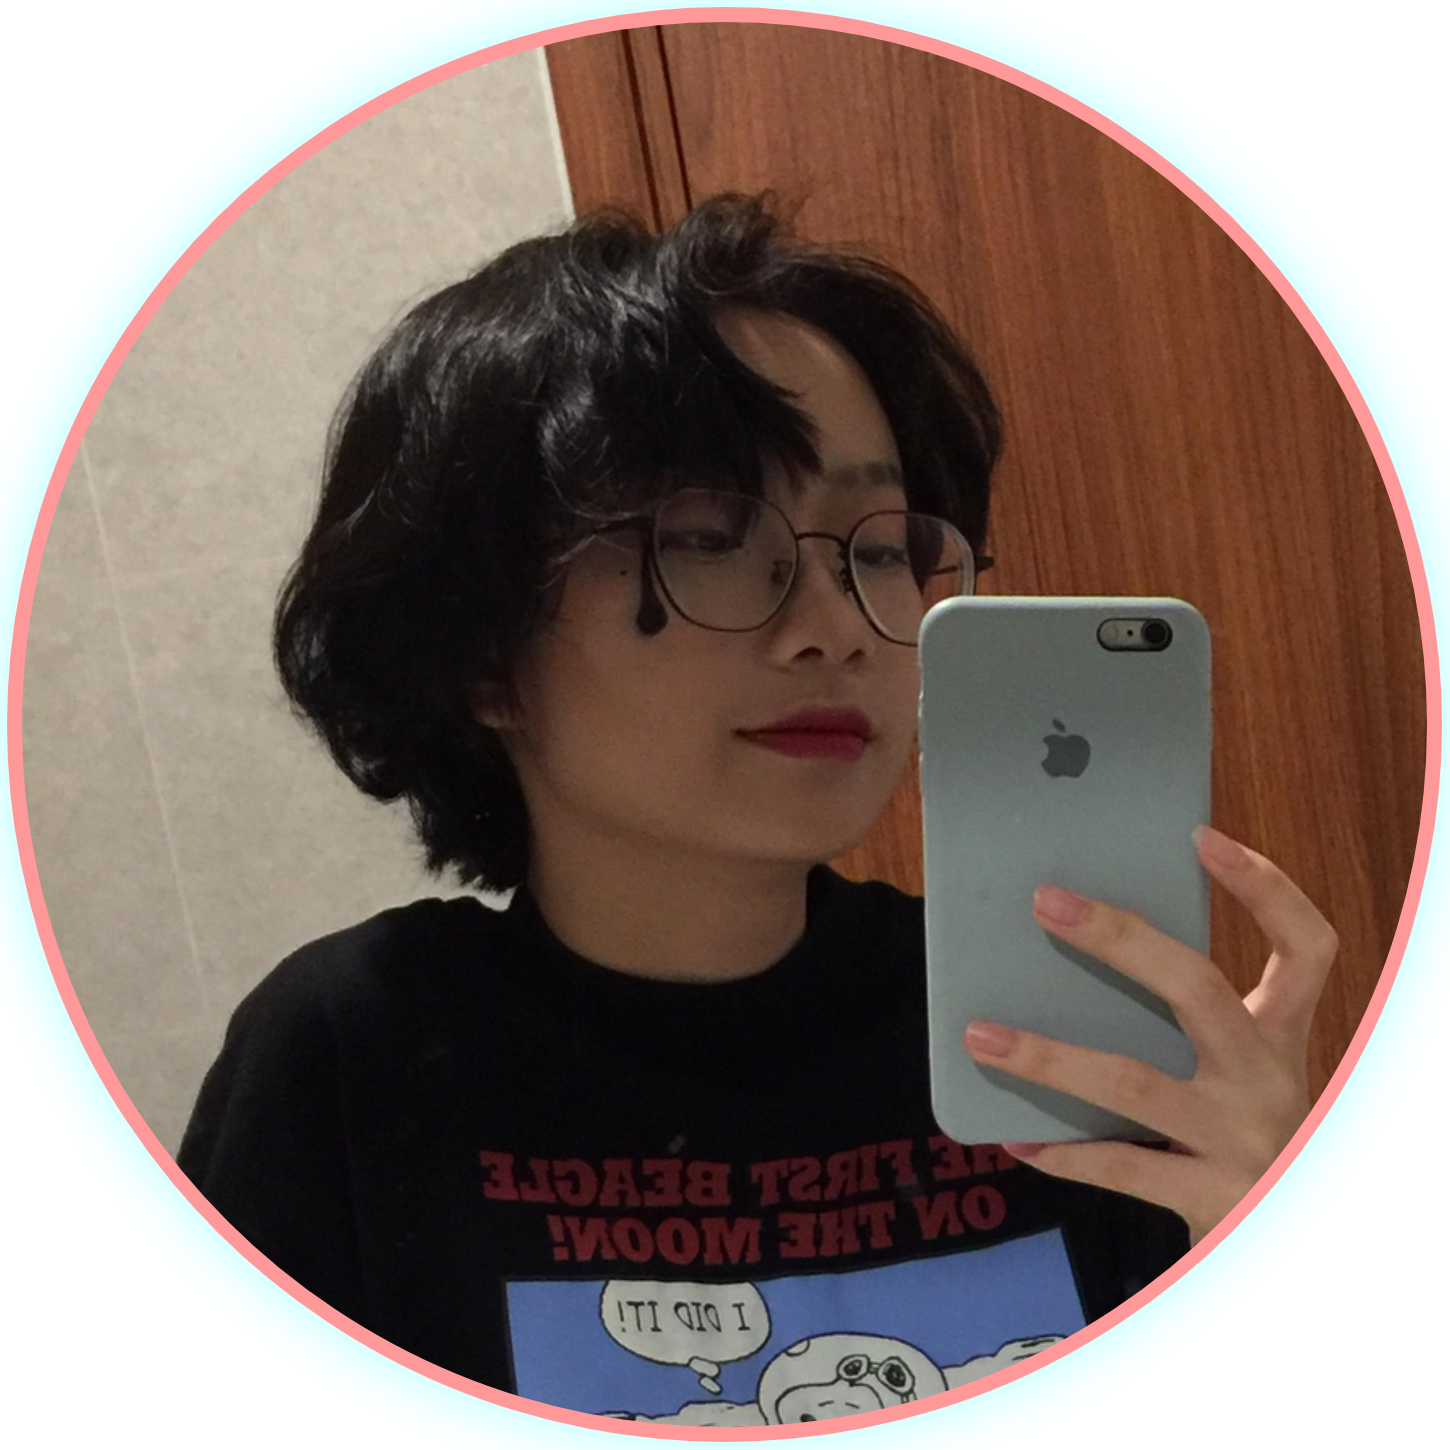
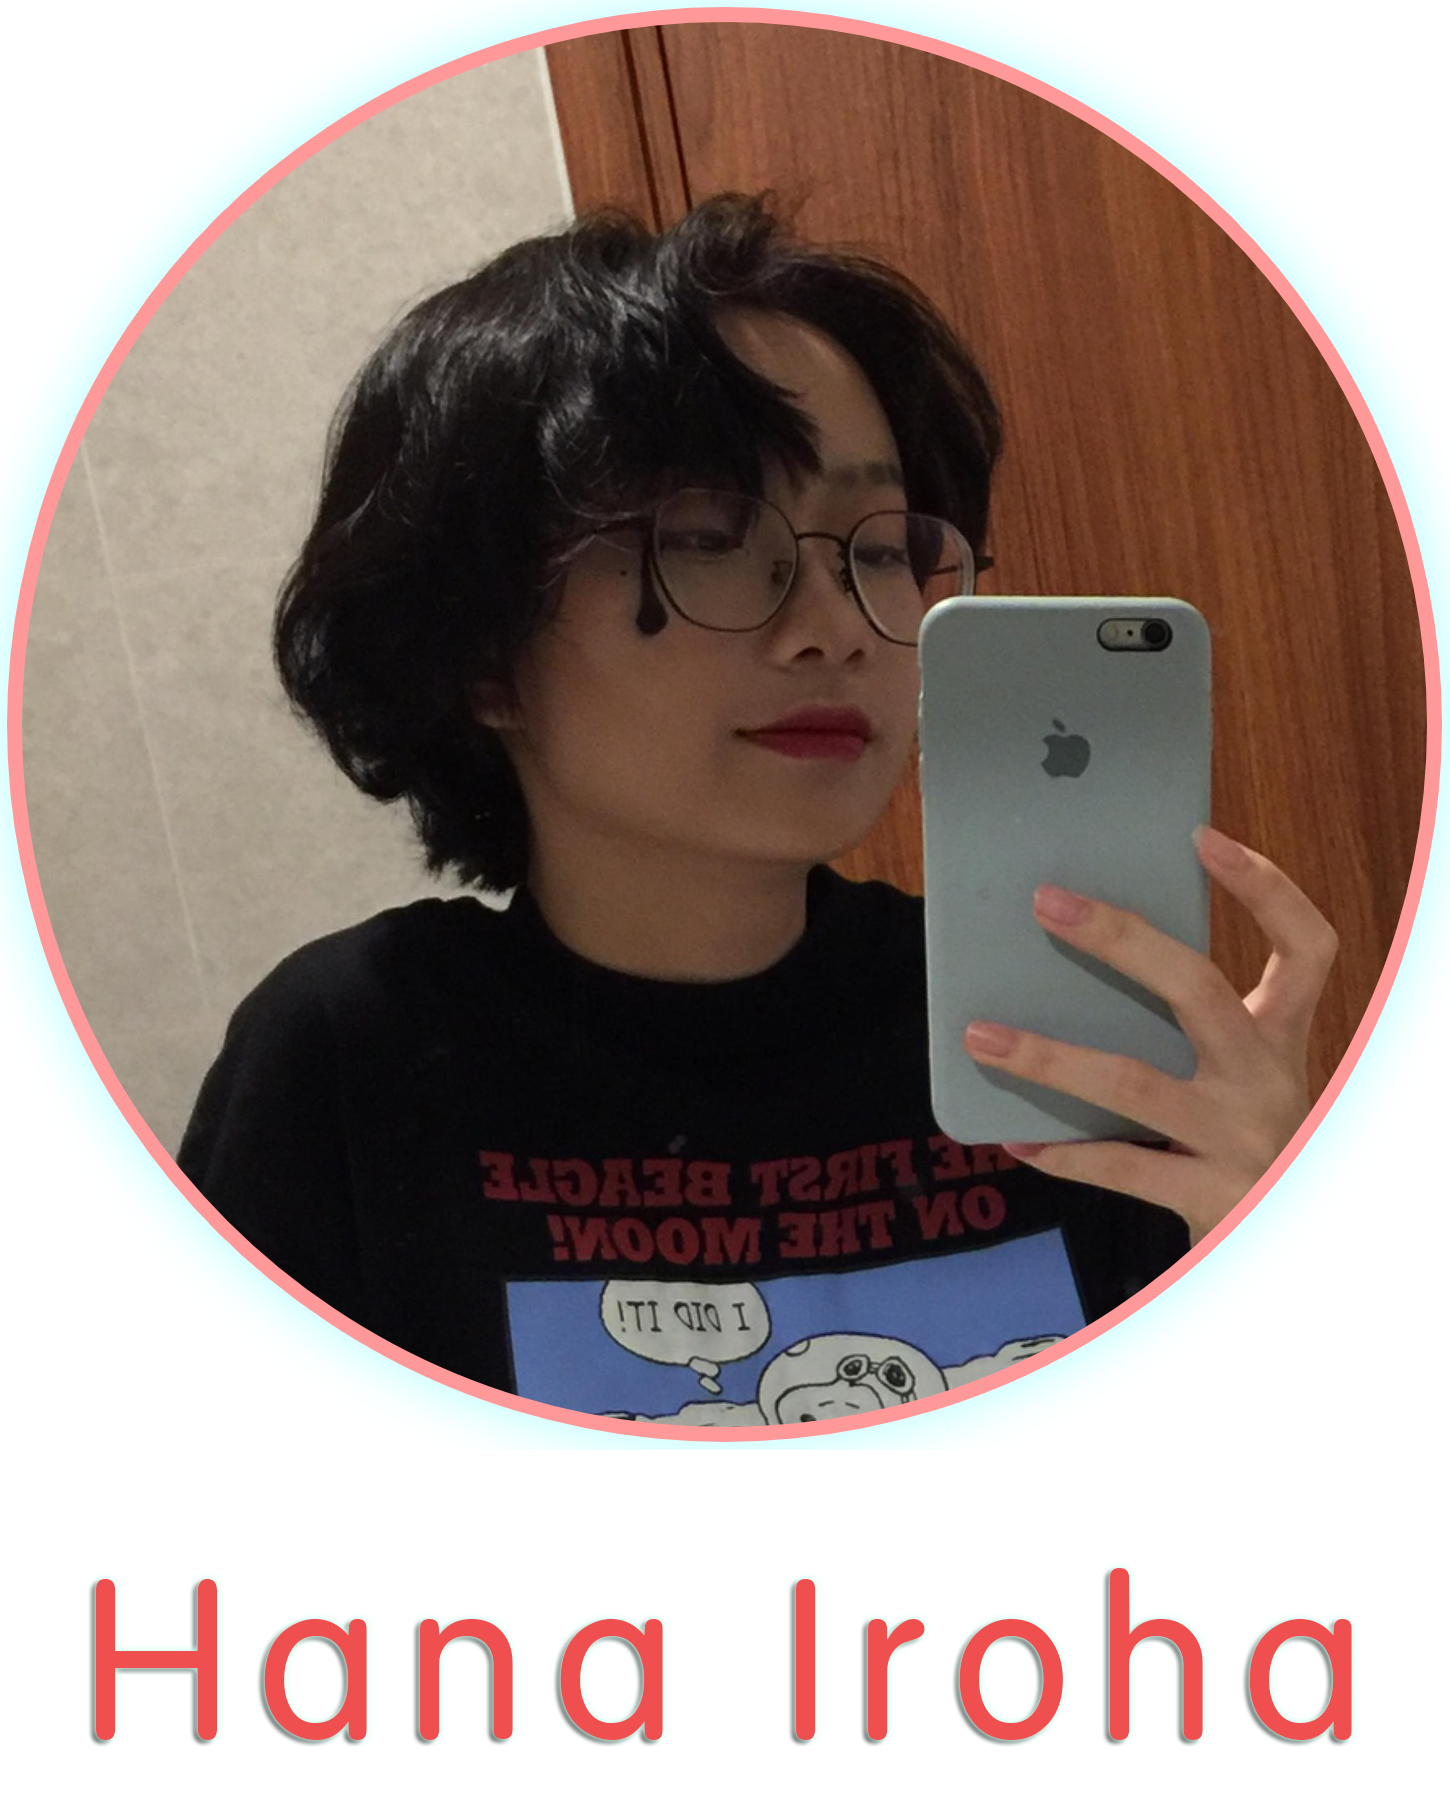
update

diff --git a/style.css b/style.css
@@ -22,8 +22,9 @@ main {
 }
 
 .glass {
+  position: absolute;
   background: white;
-  min-height: 80vh;
+  min-height: 80%;
   width: 80%;
   background: linear-gradient(
     to right bottom,
@@ -37,20 +38,13 @@ main {
 }
 
 #avatar {
-  height: 220px;
-  width: 220px;
   position: absolute;
-  top: 100px;
-  left: 100px;
-  border: 5px solid white;
-}
-
-.name {
-  position: absolute;
-  top: 325px;
-  left: 100px;
+  height: 70%;
+  top:15%;
+  left: 8%;
 }
 
 .profile {
   width: 30%;
+  height: 100%;
 }

diff --git a/index.html b/index.html
@@ -15,8 +15,7 @@
     <main>
       <section class="glass">
         <div class="profile">
-          <img id="avatar" src="./images/avatar.png" alt=""/>
-          <h1 class="name">Hana Iroha</h1> 
+          <img id="avatar" src="./images/avatar.png" alt=""/>    
         </div>  
       </section>
     </main>
